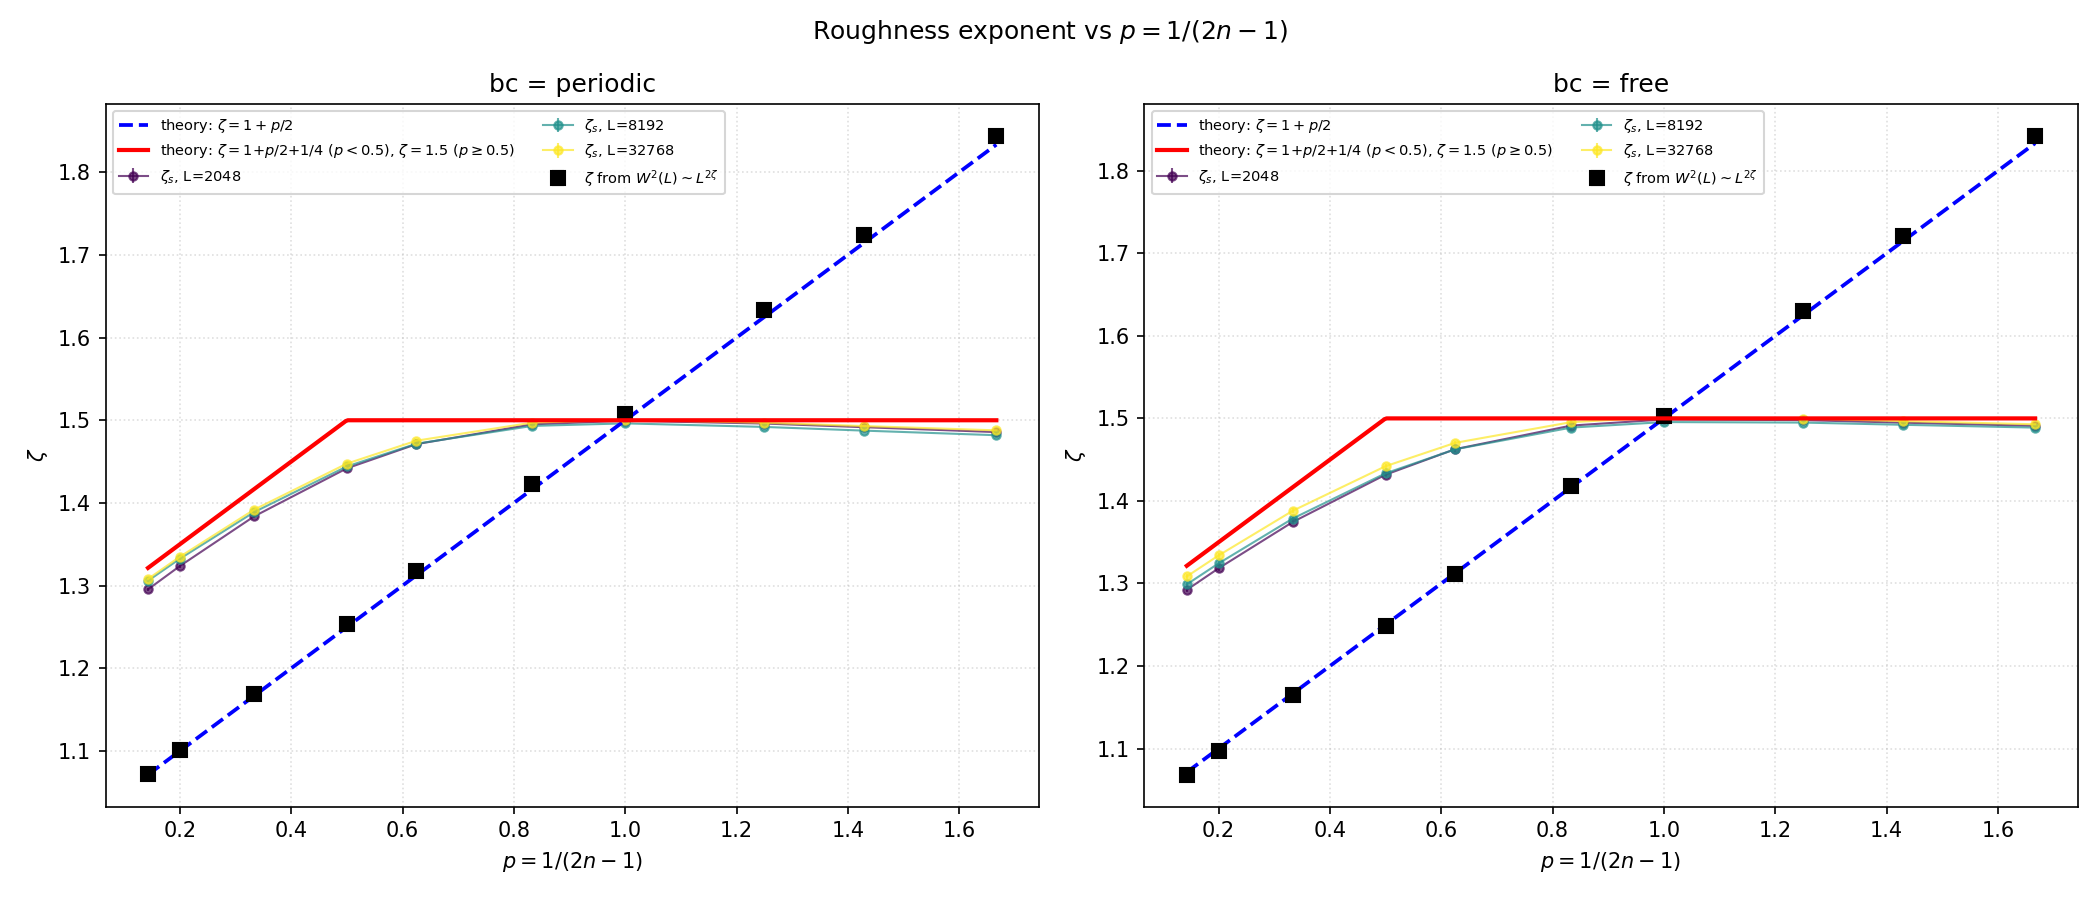
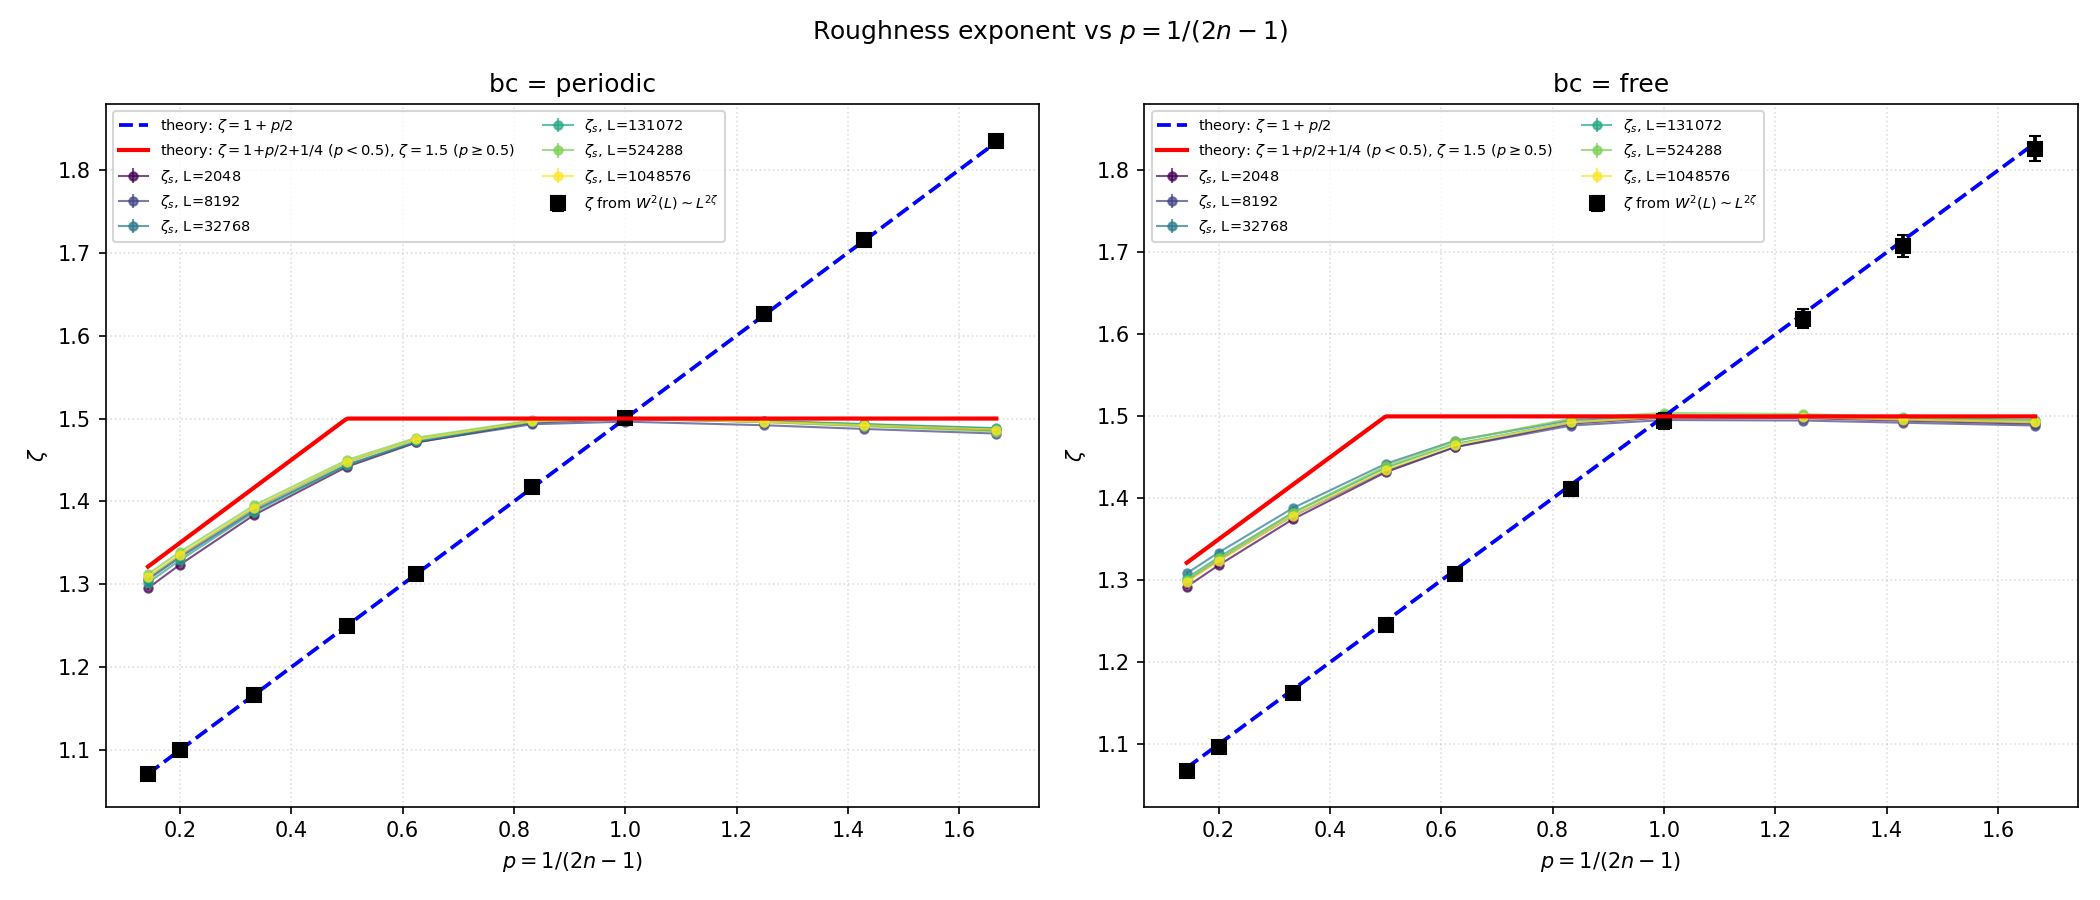
Extend L sweep to 2^20 (~1e6) and fix W2 numeric-parsing bug
- scan_sweep_bc.sh / slurm/scan_array.sbatch: add L=131072, 524288,
  1048576 (powers of 2) to the existing grid, same n's and 1000
  samples each; array job now covers 120 (bc, n, L) combinations.
- plot_zeta_vs_n.py: W2_direct/W2_parseval reach ~1e19-1e20 for large
  L and low n (zeta ~1.85 makes W2 ~ L^3.7). Written in long
  fixed-point notation, pandas' C parser silently read the whole
  column as strings instead of float64, dropping it during
  groupby(...).mean(numeric_only=True) and breaking the W^2(L) fit.
  Force pd.to_numeric() on both columns after reading.
- zeta_vs_n.png regenerated from the full 120-run sweep (5 L-points
  per n instead of 2).

diff --git a/plot_zeta_vs_n.py b/plot_zeta_vs_n.py
@@ -164,6 +164,13 @@ def main():
     args = parser.parse_args()
 
     df = pd.read_csv(args.csv)
+    # W2_direct/W2_parseval can reach huge magnitudes for large L / low n
+    # (zeta close to ~1.85 makes W2 ~ L^3.7). Written in long fixed-point
+    # notation, pandas' C parser sometimes leaves the whole column as
+    # strings instead of inferring float64 -- force it explicitly.
+    for col in ("W2_direct", "W2_parseval"):
+        if col in df.columns:
+            df[col] = pd.to_numeric(df[col])
 
     has_bc = "bc" in df.columns
     if has_bc and args.bc != "both":

diff --git a/slurm/README.md b/slurm/README.md
@@ -45,7 +45,7 @@ sbatch slurm/submit_single.sbatch -L 65536 -n 2.0 -c 1.0 --samples 500 \
 
 # 2. full sweep, in parallel instead of scan_sweep_bc.sh's serial loop
 sbatch slurm/scan_array.sbatch
-squeue -u $USER                     # wait for all 60 array tasks to finish
+squeue -u $USER                     # wait for all 120 array tasks to finish
 slurm/merge_scan_results.sh         # -> scan_results.csv at repo root
 
 # 3. back on the frontend (or wherever you have pandas):
